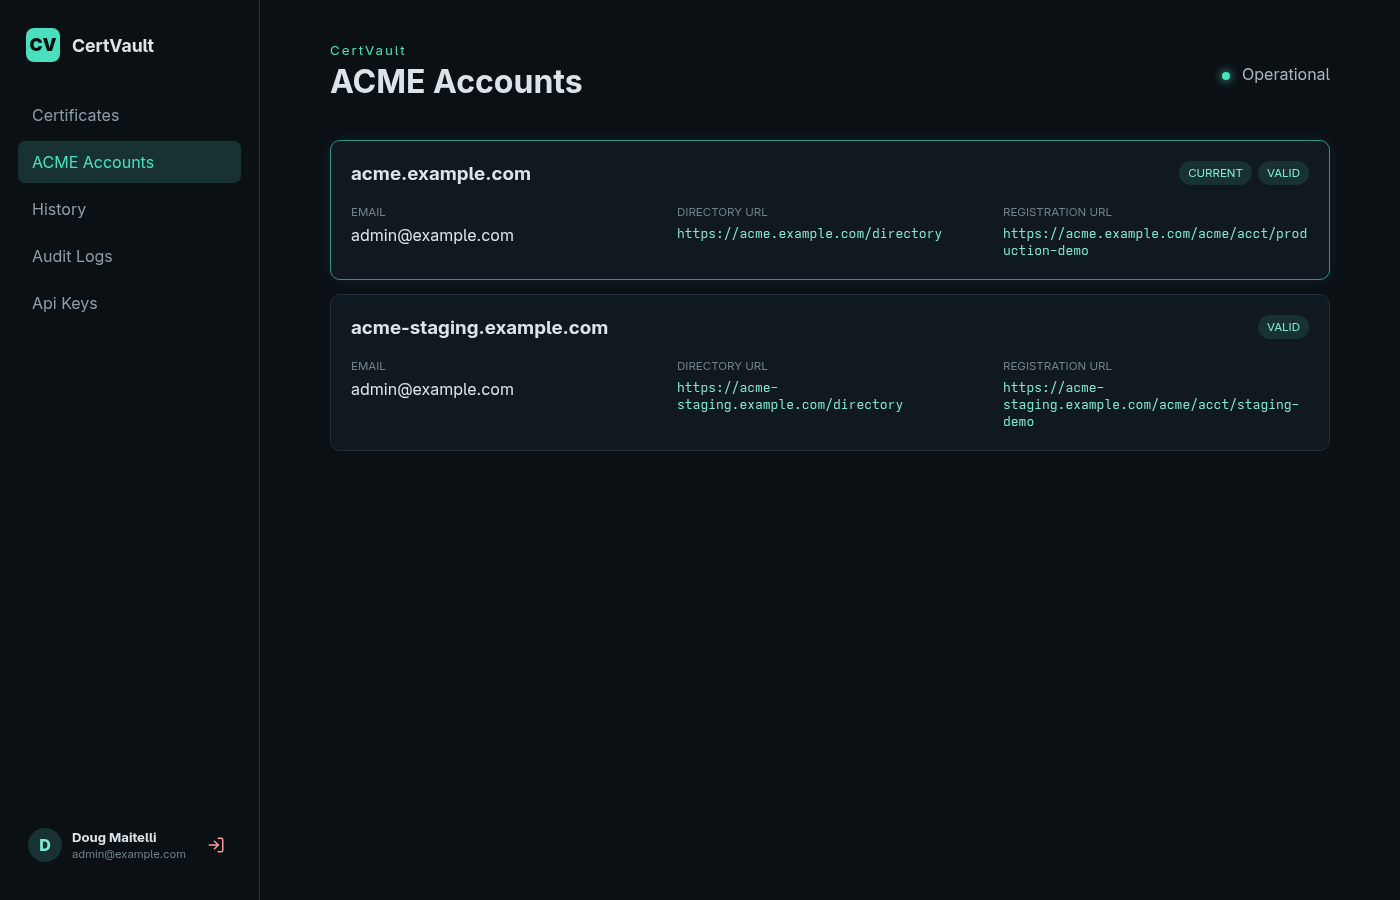
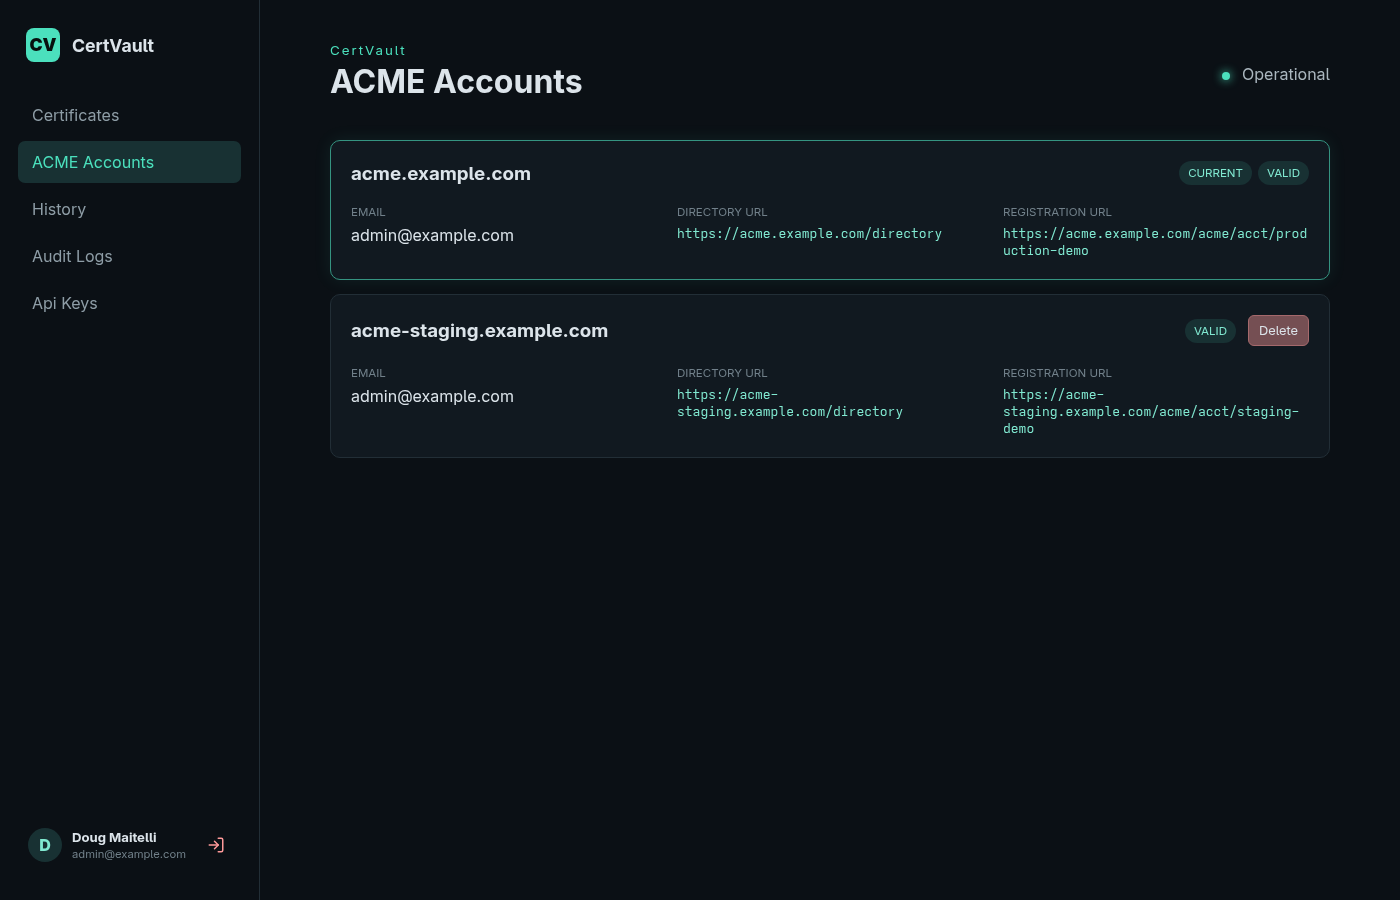
Add security and contribution documentation

diff --git a/CONTRIBUTING.md b/CONTRIBUTING.md
@@ -1,0 +1,72 @@
+# Contributing to CertVault
+
+Thank you for helping improve CertVault. Bug reports, documentation, tests, and focused code changes are welcome.
+
+## Before you start
+
+- Search existing issues and pull requests before opening a duplicate.
+- Use the bug-report form for reproducible defects and the feature-request form for proposed behavior.
+- Open an issue before beginning a large change so its design and scope can be discussed.
+- Never include credentials, tokens, certificate private keys, real private domains, database files, or other sensitive homelab information in an issue, screenshot, fixture, or commit.
+- Report suspected vulnerabilities privately according to [SECURITY.md](SECURITY.md).
+
+## Development setup
+
+Requirements:
+
+- Go 1.25.10 or the version declared by `backend/go.mod`
+- Node.js 24 or newer with npm
+- OpenSSL for generation of local development secrets
+- Docker only for container builds or containerized screenshot generation
+
+Install dependencies and start the mock ACME development environment:
+
+```sh
+make dependencies
+make dev
+```
+
+Open `http://localhost:8081` and authenticate with `certvault-dev-admin`. Development state is written under the ignored `.cache/dev` directory. Mock ACME mode issues locally signed certificates without contacting a certificate authority or DNS provider.
+
+## Project structure
+
+- `backend/` contains the Go API, authentication, ACME services, persistence, and encrypted certificate storage.
+- `web/src/` contains the React console, organized into pages, reusable components, and dialogs.
+- `config/` contains complete example and development YAML configurations.
+- `docs/openapi.yaml` describes the machine-facing API.
+- `web/public/client/install.sh` installs recurring certificate downloads on client machines.
+
+Keep HTTP handlers thin, put ACME and certificate behavior in services, and isolate database access in the model-specific repositories. Reusable UI behavior belongs in components or dialogs rather than individual pages.
+
+## Required checks
+
+Run the full validation suite before opening a pull request:
+
+```sh
+make check
+```
+
+This verifies Go and frontend formatting, runs `go vet`, golangci-lint, ESLint, backend and frontend tests, type-checks the UI, and builds both production layers. Use `make format` and the relevant lint-fix command before manually correcting formatting issues.
+
+New behavior should include tests at the closest useful layer. Security-sensitive behavior must be enforced by the backend even when the UI also prevents an invalid action.
+
+For visible UI changes, regenerate or include screenshots when they materially help review:
+
+```sh
+make screenshots
+```
+
+Use `make screenshots-docker` when a local Playwright browser is unavailable.
+
+## Pull requests
+
+- Keep changes focused and avoid unrelated refactoring or formatting.
+- Explain the problem, chosen solution, and meaningful tradeoffs.
+- Call out changes to configuration, persistence, API compatibility, authentication, authorization, cryptography, secret handling, or hooks.
+- Update examples, API documentation, and tests when behavior changes.
+- Use reserved example domains such as `example.com`; never use private or personally operated domains in fixtures.
+- Keep the branch current with `master` and ensure CI passes.
+
+## Commits
+
+Use concise imperative commit subjects, such as `Prevent deletion of current ACME account`. Release notes are generated from commit messages, so user-facing commits should describe the observable change clearly.

diff --git a/SECURITY.md b/SECURITY.md
@@ -1,0 +1,42 @@
+# Security policy
+
+## Supported versions
+
+CertVault is currently maintained on the latest release line. Security fixes are applied to the latest release and to `master`; older releases may not receive backports.
+
+| Version | Supported |
+| --- | --- |
+| Latest release | Yes |
+| `master` | Yes |
+| Older releases | No guaranteed support |
+
+## Reporting a vulnerability
+
+Do not open a public issue for a suspected vulnerability and do not include certificates, private keys, API tokens, DNS credentials, private domain names, or other homelab details in public reports.
+
+Use [GitHub private vulnerability reporting](https://github.com/dougmaitelli/CertVault/security/advisories/new) to provide:
+
+- A description of the issue and its potential impact
+- Affected versions or commit hashes
+- Reproduction steps or a proof of concept using synthetic data
+- Any suggested mitigation
+- Whether the issue is already public or known to others
+
+Please allow the maintainers a reasonable opportunity to investigate and release a fix before public disclosure. You should receive an initial acknowledgement within seven days. Validation, remediation, and disclosure timelines depend on severity and complexity and will be coordinated through the private advisory.
+
+## Deployment security
+
+CertVault stores and serves TLS private keys. Anyone who can administer the application, obtain a sufficiently privileged API key, read the master key, or modify an executable hook may be able to impersonate services using managed certificates.
+
+- Put CertVault behind HTTPS before accessing it over a network. Its API can return private keys and must not be exposed over plaintext HTTP.
+- Enable OIDC for normal administration and retain the bootstrap token only as a protected break-glass credential.
+- Grant machine API keys only the required scopes and certificate access. Treat `private_keys:read` as highly privileged.
+- Keep the master key separate from backups of the data directory. Possession of both permits decryption of stored private material; loss of the master key makes encrypted data unrecoverable.
+- Supply DNS credentials and application secrets through protected environment or secret files. Never commit them to configuration files or source control.
+- Restrict filesystem access to the persistent data directory and client-side private keys.
+- Configure trusted proxies narrowly. Do not trust forwarded client-address headers from arbitrary networks.
+- Treat executable hooks as privileged code. Mount approved hook programs read-only and avoid invoking a shell.
+- Bind CertVault to a private interface or firewall it from untrusted networks unless an authenticated reverse proxy protects it.
+- Keep CertVault, its base image, and its dependencies updated.
+
+See the [README](README.md#data-and-security-model) for additional details about storage, API access, hooks, and proxy handling.

diff --git a/README.md b/README.md
@@ -8,6 +8,11 @@
 
 CertVault is a self-hosted ACME certificate controller for homelabs. It obtains wildcard and multi-domain certificates through DNS-01, renews them automatically, stores private material encrypted, and exposes scoped download endpoints for other machines on the local network. The web console shows certificate health, issuance history, and API-key usage.
 
+## Project documentation
+
+- [Security policy](SECURITY.md)
+- [Contributing](CONTRIBUTING.md)
+
 ## Screenshots
 
 <table>
@@ -166,7 +171,7 @@ curl --fail --silent --show-error \
 
 Downloads include an `ETag`, so clients may use `If-None-Match`. A machine key needs `certificates:read` for public certificate files and the separately privileged `private_keys:read` scope for private keys.
 
-The API Keys page can also generate a one-time command that installs an automatic download job through `/client/install.sh`. The installer requires a Linux or Unix-like client with `curl`, `crontab`, and `install`. It stores the API key in a mode `0600` file, downloads through an atomic temporary directory, installs the selected cron schedule, immediately performs the first download, and replaces an existing job for the same certificate files instead of creating duplicates. The default bundle installs `fullchain.pem` and `private-key.pem` together into a certificate-specific destination directory.
+The API Keys page can also generate a one-time command that installs an automatic download job through `/client/install.sh`. The installer requires a Linux or Unix-like client with `curl`, `crontab`, and `install`. It stores the API key in a mode `0600` file, downloads through an atomic temporary directory, installs the selected cron schedule, immediately performs the first download, and replaces an existing job for the same certificate files instead of creating duplicates. The default bundle installs `fullchain.pem` and `private-key.pem` together into a certificate-specific destination directory. The client stores each file's `ETag` and uses conditional requests on later runs; unchanged files return `304 Not Modified`, are not rewritten, and do not create certificate-download audit events.
 
 ## Configuration
 

diff --git a/.github/PULL_REQUEST_TEMPLATE.md b/.github/PULL_REQUEST_TEMPLATE.md
@@ -1,0 +1,27 @@
+## Summary
+
+<!-- What problem does this change solve, and how? -->
+
+## Validation
+
+- [ ] `make check`
+- [ ] I added or updated tests where appropriate
+- [ ] I added or updated documentation where appropriate
+- [ ] I used only synthetic domains, credentials, certificates, and account data in fixtures and screenshots
+
+## Impact
+
+- [ ] This changes configuration or environment variables
+- [ ] This changes database models or stored files
+- [ ] This changes the API or client installer
+- [ ] This changes authentication, authorization, cryptography, secret handling, hooks, or another security boundary
+- [ ] This changes certificate issuance, renewal, or ACME account behavior
+- [ ] This introduces a breaking or behavior-changing API/UI change
+
+## Visual changes
+
+<!-- Add screenshots or a short recording for UI changes. Remove this section otherwise. -->
+
+## Additional context
+
+<!-- Deployment notes, compatibility concerns, tradeoffs, or follow-up work. -->
